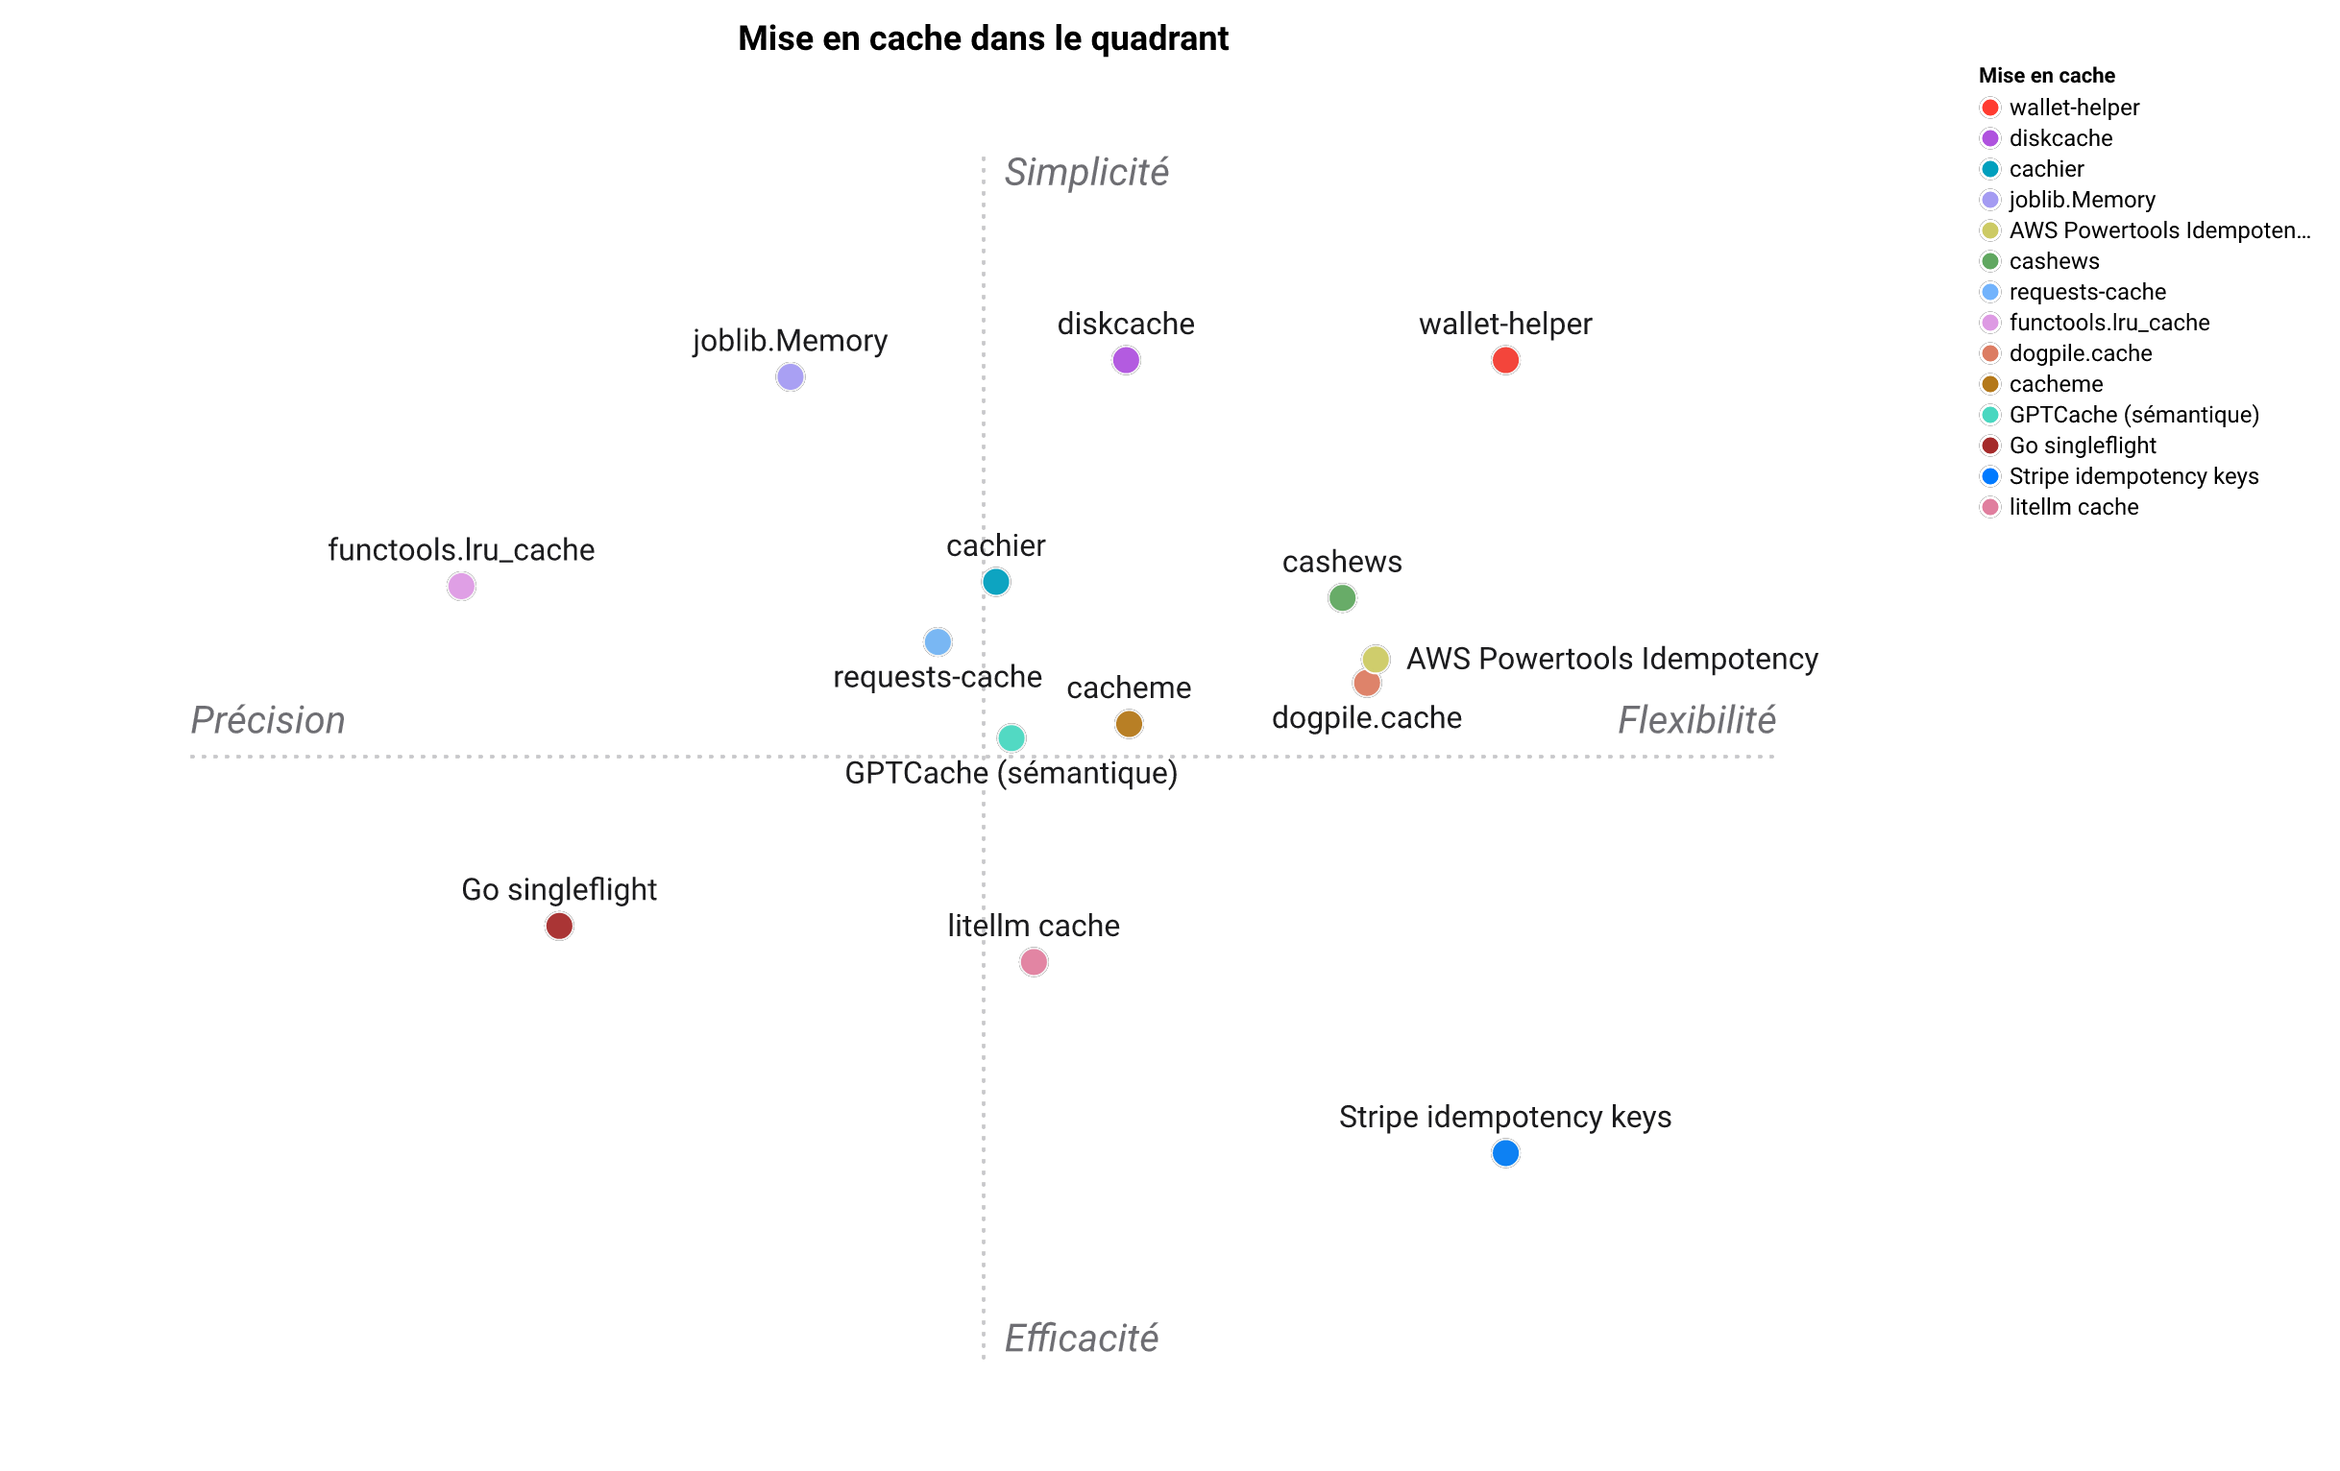
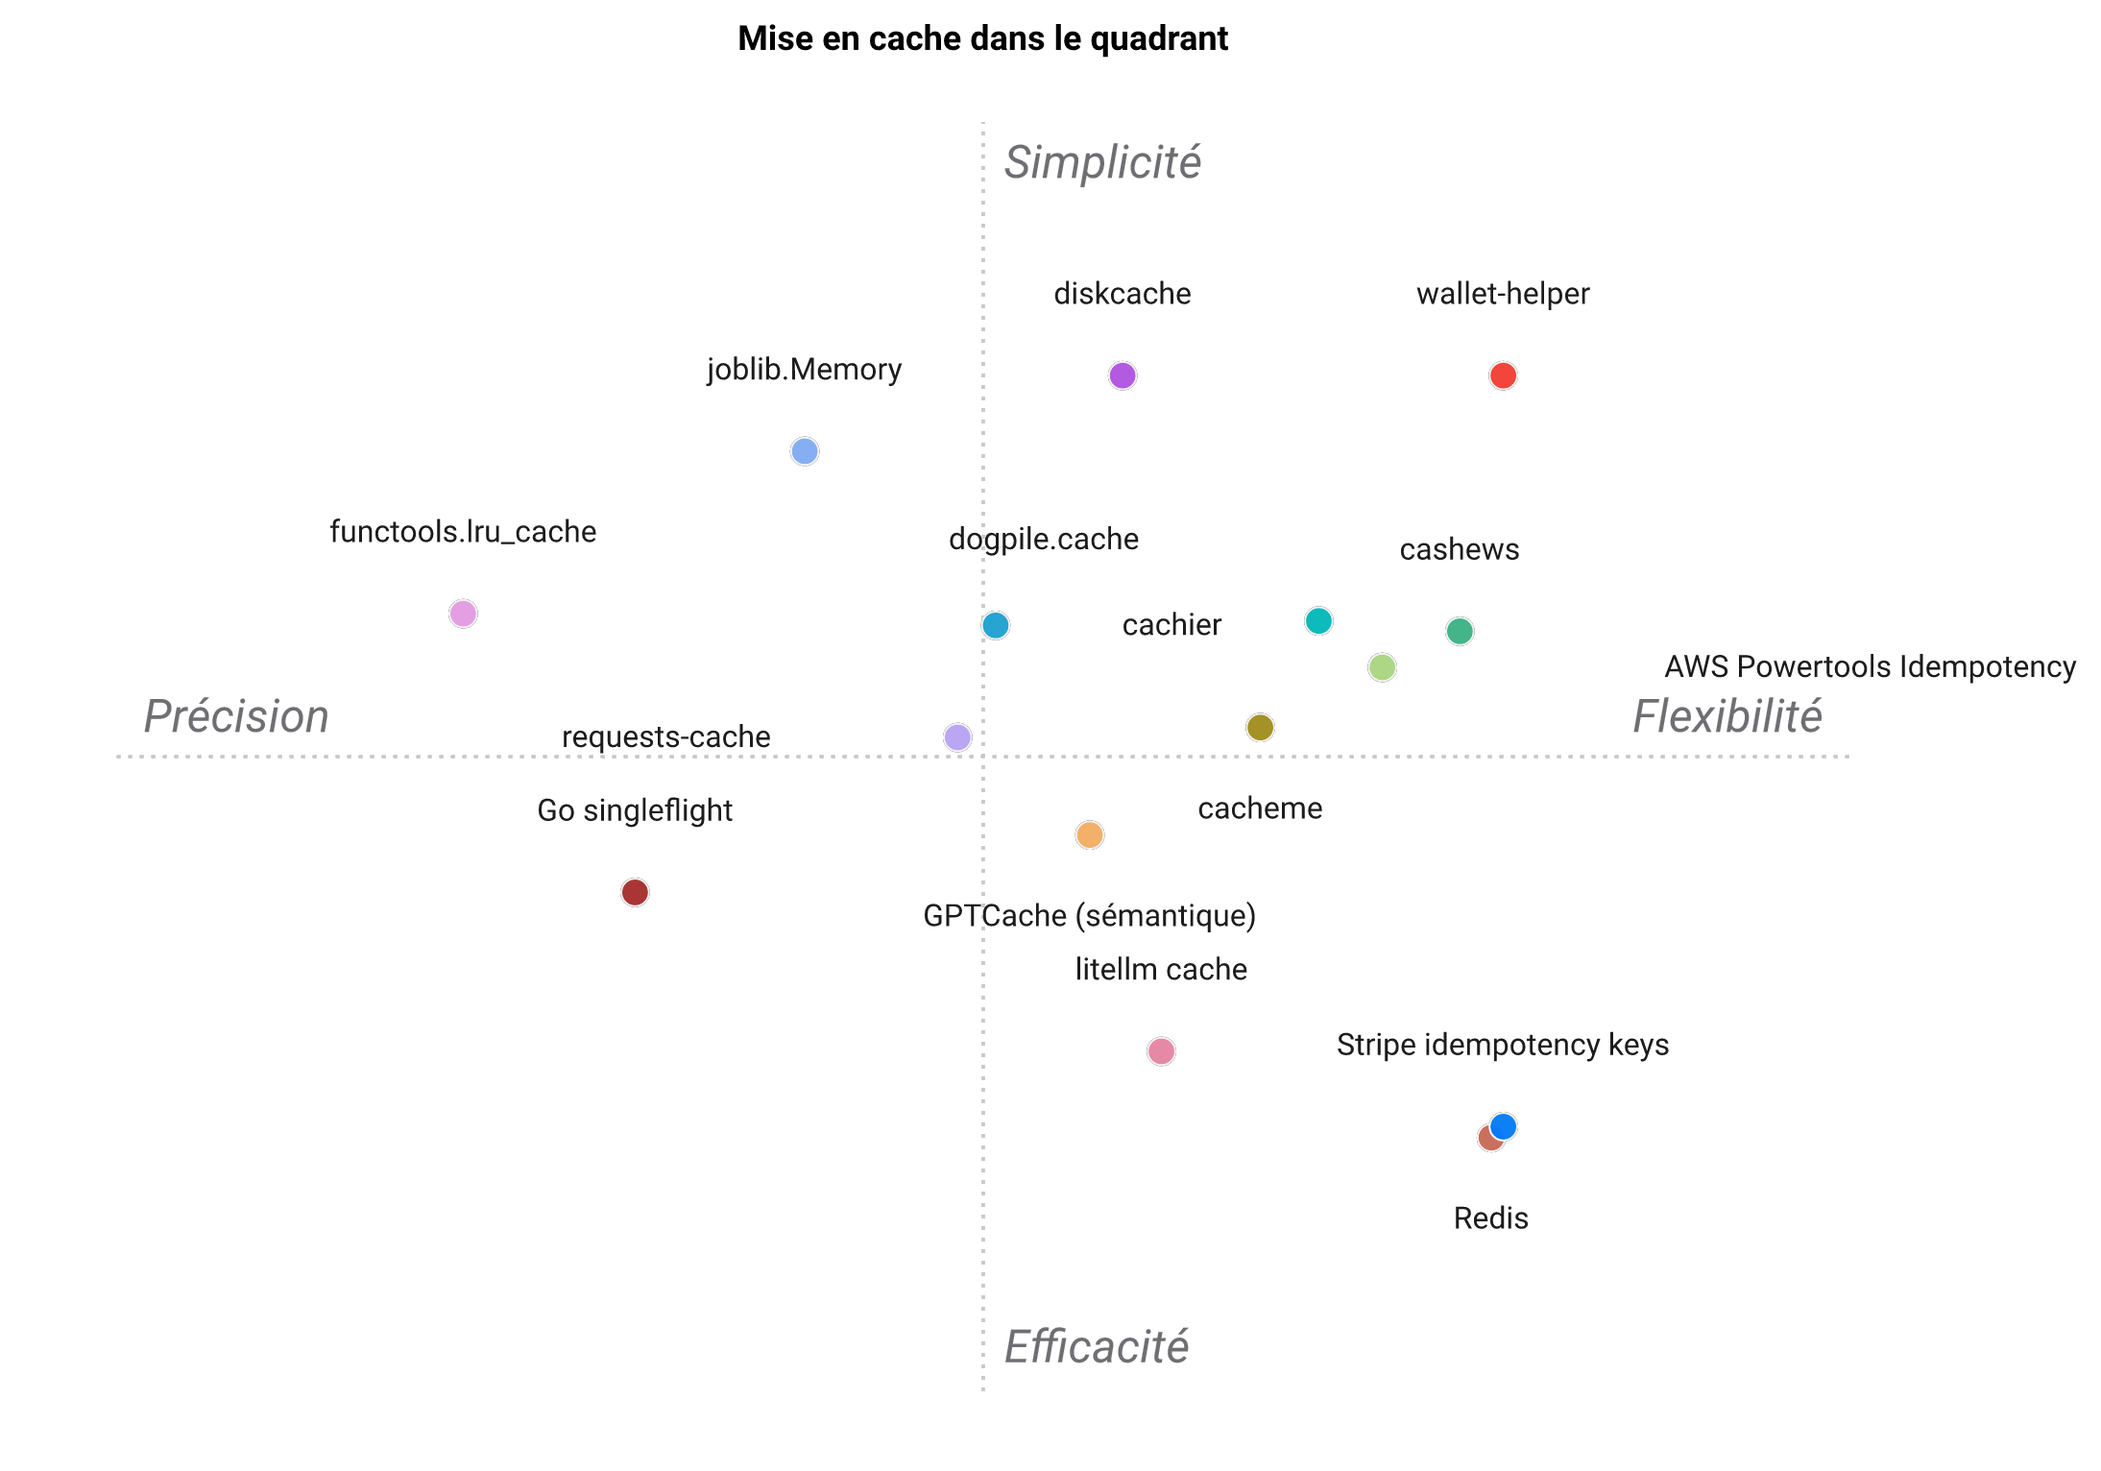
docs(landscape): add Redis + async axis; regenerated positioning map
Add an "Async support" criterion (a real differentiator wallet-helper's docs
emphasize) and Redis as the scalable/server pole opposite wallet-helper.
Regenerate the figure via standpoint 0.6.0 and reconcile the feature-list and
pros-and-cons prose with the new column and row.

diff --git a/PAYSAGE.md b/PAYSAGE.md
@@ -36,25 +36,27 @@ Noté de ⭐ (absent ou faible) à ⭐⭐⭐⭐⭐ (meilleur de sa catégorie) p
 - **TTL / expiration** : fraîcheur par entrée avec expiration et éviction.
 - **Serveur pour plusieurs clients** : un point d'accès partagé qui centralise la déduplication.
 - **Décorateur** : ergonomie transparente `@decorator`.
+- **Support asynchrone** : fonctionne avec les coroutines `async def`, pas seulement les fonctions synchrones.
 - **Local (sans service)** : fonctionne sans base de données ni serveur de cache séparé. Il s'agit de l'empreinte de déploiement, pas du nombre de dépendances.
 
 <!-- TABLE:START -->
-| Mise en cache | Persistant | Adresse par contenu d'entrée | Single-flight intra-processus | Single-flight inter-processus | TTL / expiration | Serveur pour plusieurs clients | Décorateur | Local (sans service) |
-| --- | :---: | :---: | :---: | :---: | :---: | :---: | :---: | :---: |
-| **wallet-helper** | ⭐⭐⭐⭐⭐ | ⭐⭐⭐⭐⭐ | ⭐⭐⭐⭐⭐ | ⭐⭐⭐⭐⭐ | ⭐⭐⭐⭐⭐ | ⭐⭐⭐⭐ | ⭐⭐⭐⭐⭐ | ⭐⭐⭐⭐ |
-| functools.lru_cache | ⭐ | ⭐ | ⭐ | ⭐ | ⭐ | ⭐ | ⭐⭐⭐⭐⭐ | ⭐⭐⭐⭐⭐ |
-| joblib.Memory | ⭐⭐⭐⭐⭐ | ⭐⭐⭐ | ⭐ | ⭐ | ⭐ | ⭐ | ⭐⭐⭐⭐ | ⭐⭐⭐ |
-| diskcache | ⭐⭐⭐⭐⭐ | ⭐⭐ | ⭐⭐⭐ | ⭐⭐⭐ | ⭐⭐⭐⭐⭐ | ⭐ | ⭐⭐⭐⭐ | ⭐⭐⭐⭐ |
-| cachier | ⭐⭐⭐⭐ | ⭐ | ⭐ | ⭐⭐⭐ | ⭐⭐⭐⭐ | ⭐ | ⭐⭐⭐⭐ | ⭐⭐⭐ |
-| requests-cache | ⭐⭐⭐⭐⭐ | ⭐ | ⭐ | ⭐ | ⭐⭐⭐⭐⭐ | ⭐ | ⭐⭐ | ⭐⭐⭐ |
-| dogpile.cache | ⭐⭐⭐⭐ | ⭐ | ⭐⭐⭐⭐⭐ | ⭐⭐⭐⭐ | ⭐⭐⭐⭐⭐ | ⭐⭐ | ⭐⭐⭐⭐ | ⭐⭐ |
-| Go singleflight | ⭐ | ⭐ | ⭐⭐⭐⭐⭐ | ⭐ | ⭐ | ⭐ | ⭐ | ⭐⭐⭐⭐⭐ |
-| AWS Powertools Idempotency | ⭐⭐⭐⭐ | ⭐⭐ | ⭐⭐ | ⭐⭐⭐⭐⭐ | ⭐⭐⭐⭐ | ⭐⭐ | ⭐⭐⭐⭐ | ⭐ |
-| Stripe idempotency keys | ⭐⭐⭐ | ⭐ | ⭐⭐⭐⭐ | ⭐⭐⭐⭐⭐ | ⭐⭐⭐ | ⭐⭐⭐⭐⭐ | ⭐ | ⭐ |
-| litellm cache | ⭐⭐⭐⭐ | ⭐ | ⭐ | ⭐⭐⭐ | ⭐⭐⭐ | ⭐ | ⭐ | ⭐ |
-| cashews | ⭐⭐⭐⭐ | ⭐ | ⭐⭐⭐⭐ | ⭐⭐⭐⭐ | ⭐⭐⭐⭐⭐ | ⭐⭐ | ⭐⭐⭐⭐⭐ | ⭐⭐ |
-| cacheme | ⭐⭐⭐ | ⭐ | ⭐⭐⭐⭐⭐ | ⭐⭐⭐ | ⭐⭐⭐⭐ | ⭐ | ⭐⭐⭐⭐ | ⭐⭐ |
-| GPTCache (sémantique) | ⭐⭐⭐⭐ | ⭐⭐ | ⭐ | ⭐⭐ | ⭐⭐⭐ | ⭐⭐ | ⭐⭐ | ⭐⭐ |
+| Mise en cache | Persistant | Adresse par contenu d'entrée | Single-flight intra-processus | Single-flight inter-processus | TTL / expiration | Serveur pour plusieurs clients | Décorateur | Support asynchrone | Local (sans service) |
+| --- | :---: | :---: | :---: | :---: | :---: | :---: | :---: | :---: | :---: |
+| **wallet-helper** | ⭐⭐⭐⭐⭐ | ⭐⭐⭐⭐⭐ | ⭐⭐⭐⭐⭐ | ⭐⭐⭐⭐⭐ | ⭐⭐⭐⭐⭐ | ⭐⭐⭐⭐ | ⭐⭐⭐⭐⭐ | ⭐⭐⭐⭐⭐ | ⭐⭐⭐⭐ |
+| functools.lru_cache | ⭐ | ⭐ | ⭐ | ⭐ | ⭐ | ⭐ | ⭐⭐⭐⭐⭐ | ⭐ | ⭐⭐⭐⭐⭐ |
+| joblib.Memory | ⭐⭐⭐⭐⭐ | ⭐⭐⭐ | ⭐ | ⭐ | ⭐ | ⭐ | ⭐⭐⭐⭐ | ⭐ | ⭐⭐⭐ |
+| diskcache | ⭐⭐⭐⭐⭐ | ⭐⭐ | ⭐⭐⭐ | ⭐⭐⭐ | ⭐⭐⭐⭐⭐ | ⭐ | ⭐⭐⭐⭐ | ⭐ | ⭐⭐⭐⭐ |
+| cachier | ⭐⭐⭐⭐ | ⭐ | ⭐ | ⭐⭐⭐ | ⭐⭐⭐⭐ | ⭐ | ⭐⭐⭐⭐ | ⭐ | ⭐⭐⭐ |
+| requests-cache | ⭐⭐⭐⭐⭐ | ⭐ | ⭐ | ⭐ | ⭐⭐⭐⭐⭐ | ⭐ | ⭐⭐ | ⭐ | ⭐⭐⭐ |
+| dogpile.cache | ⭐⭐⭐⭐ | ⭐ | ⭐⭐⭐⭐⭐ | ⭐⭐⭐⭐ | ⭐⭐⭐⭐⭐ | ⭐⭐ | ⭐⭐⭐⭐ | ⭐ | ⭐⭐ |
+| Redis | ⭐⭐⭐⭐ | ⭐ | ⭐ | ⭐⭐⭐ | ⭐⭐⭐⭐⭐ | ⭐⭐⭐⭐⭐ | ⭐ | ⭐⭐⭐⭐ | ⭐ |
+| Go singleflight | ⭐ | ⭐ | ⭐⭐⭐⭐⭐ | ⭐ | ⭐ | ⭐ | ⭐ | ⭐⭐⭐ | ⭐⭐⭐⭐⭐ |
+| AWS Powertools Idempotency | ⭐⭐⭐⭐ | ⭐⭐ | ⭐⭐ | ⭐⭐⭐⭐⭐ | ⭐⭐⭐⭐ | ⭐⭐ | ⭐⭐⭐⭐ | ⭐⭐ | ⭐ |
+| Stripe idempotency keys | ⭐⭐⭐ | ⭐ | ⭐⭐⭐⭐ | ⭐⭐⭐⭐⭐ | ⭐⭐⭐ | ⭐⭐⭐⭐⭐ | ⭐ | ⭐⭐⭐ | ⭐ |
+| litellm cache | ⭐⭐⭐⭐ | ⭐ | ⭐ | ⭐⭐⭐ | ⭐⭐⭐ | ⭐ | ⭐ | ⭐⭐⭐⭐ | ⭐ |
+| cashews | ⭐⭐⭐⭐ | ⭐ | ⭐⭐⭐⭐ | ⭐⭐⭐⭐ | ⭐⭐⭐⭐⭐ | ⭐⭐ | ⭐⭐⭐⭐⭐ | ⭐⭐⭐⭐⭐ | ⭐⭐ |
+| cacheme | ⭐⭐⭐ | ⭐ | ⭐⭐⭐⭐⭐ | ⭐⭐⭐ | ⭐⭐⭐⭐ | ⭐ | ⭐⭐⭐⭐ | ⭐⭐⭐⭐⭐ | ⭐⭐ |
+| GPTCache (sémantique) | ⭐⭐⭐⭐ | ⭐⭐ | ⭐ | ⭐⭐ | ⭐⭐⭐ | ⭐⭐ | ⭐⭐ | ⭐⭐⭐ | ⭐⭐ |
 <!-- TABLE:END -->
 
 ## Carte de positionnement
@@ -64,7 +66,7 @@ Représentation 2D du tableau ci-dessus.
 
 ![Carte de positionnement](https://raw.githubusercontent.com/warith-harchaoui/wallet-helper/main/assets/paysage.png)
 
-La carte est un résumé en 2D des 8 critères : à lire comme une forme, pas comme un classement. « wallet-helper » se situe dans le coin en haut à droite. Les axes se lisent **Horizontal — Précision ↔ Flexibilité** et **Vertical — Efficacité ↔ Simplicité**.
+La carte est un résumé en 2D des 9 critères : à lire comme une forme, pas comme un classement. « wallet-helper » se situe dans le coin en haut à droite. Les axes se lisent **Horizontal — Précision ↔ Flexibilité** et **Vertical — Efficacité ↔ Simplicité**.
 <!-- FIGURE:END -->
 
 ## Avantages et inconvénients
@@ -78,6 +80,7 @@ La carte est un résumé en 2D des 8 critères : à lire comme une forme, pas co
 | `cachier` | Décorateur simple ; durée de vie (`stale_after`) ; plusieurs backends. | Pas de vrai single-flight ; l'usage distribué nécessite mongo ou redis. |
 | `requests-cache` | Transparent pour `requests` ; riches métadonnées de cache par réponse. | HTTP seulement ; pas de coalescence ; pas pour des fonctions arbitraires. |
 | `dogpile.cache` | Vrai verrou dogpile (`get_or_create`) ; stale-while-revalidate ; extensible. | A besoin d'un backend de cache (memcached, redis) pour le cas partagé ; plus de pièces mobiles. |
+| Redis | Le pôle scalable opposé à wallet-helper : le magasin en mémoire sur lequel beaucoup de ces outils s'appuient ; TTL et éviction ; un serveur partagé qui centralise l'état entre clients et hôtes ; clients asynchrones. | Un service séparé à faire tourner et exploiter, donc ni local ni autonome ; vous gérez les clés explicitement, sans adressage par contenu d'entrée ; pas de coalescence d'appels ni de `@decorator` intégrés ; single-flight seulement si vous ajoutez un verrou par-dessus. |
 | Go `singleflight` | La primitive de référence de coalescence en vol ; minuscule. | En vol seulement (pas de cache) ; mono-processus ; en Go, pas en Python. |
 | AWS Powertools Idempotency | Bail INPROGRESS robuste ; suppression en cas d'échec ; expiration ; éprouvé. | A besoin de DynamoDB ou redis ; les suiveurs rejettent-et-réessaient au lieu d'attendre ; centré sur AWS. |
 | Stripe idempotency keys | Standard de l'industrie ; rejoue les résultats terminés ; rejette les doublons concurrents. | Distant et lié au compte ; HTTP seulement ; l'appelant doit gérer les clés. |

diff --git a/LANDSCAPE.md b/LANDSCAPE.md
@@ -34,26 +34,28 @@ Rated ⭐ (absent or poor) to ⭐⭐⭐⭐⭐ (best in class) per column.
 - **TTL / expiry**: per-entry freshness with expiry and eviction.
 - **Server for many clients**: a shared endpoint that centralizes dedup.
 - **Decorator**: transparent `@decorator` ergonomics.
+- **Async support**: works with `async def` coroutines, not only synchronous functions.
 - **Local (no service)**: runs without a separate database or cache server. This
   is about deployment footprint, not dependency count.
 
 <!-- TABLE:START -->
-| Caching | Persistent | Content-addresses input | In-process single-flight | Cross-process single-flight | TTL / expiry | Server for many clients | Decorator | Local (no service) |
-| --- | :---: | :---: | :---: | :---: | :---: | :---: | :---: | :---: |
-| **wallet-helper** | ⭐⭐⭐⭐⭐ | ⭐⭐⭐⭐⭐ | ⭐⭐⭐⭐⭐ | ⭐⭐⭐⭐⭐ | ⭐⭐⭐⭐⭐ | ⭐⭐⭐⭐ | ⭐⭐⭐⭐⭐ | ⭐⭐⭐⭐ |
-| functools.lru_cache | ⭐ | ⭐ | ⭐ | ⭐ | ⭐ | ⭐ | ⭐⭐⭐⭐⭐ | ⭐⭐⭐⭐⭐ |
-| joblib.Memory | ⭐⭐⭐⭐⭐ | ⭐⭐⭐ | ⭐ | ⭐ | ⭐ | ⭐ | ⭐⭐⭐⭐ | ⭐⭐⭐ |
-| diskcache | ⭐⭐⭐⭐⭐ | ⭐⭐ | ⭐⭐⭐ | ⭐⭐⭐ | ⭐⭐⭐⭐⭐ | ⭐ | ⭐⭐⭐⭐ | ⭐⭐⭐⭐ |
-| cachier | ⭐⭐⭐⭐ | ⭐ | ⭐ | ⭐⭐⭐ | ⭐⭐⭐⭐ | ⭐ | ⭐⭐⭐⭐ | ⭐⭐⭐ |
-| requests-cache | ⭐⭐⭐⭐⭐ | ⭐ | ⭐ | ⭐ | ⭐⭐⭐⭐⭐ | ⭐ | ⭐⭐ | ⭐⭐⭐ |
-| dogpile.cache | ⭐⭐⭐⭐ | ⭐ | ⭐⭐⭐⭐⭐ | ⭐⭐⭐⭐ | ⭐⭐⭐⭐⭐ | ⭐⭐ | ⭐⭐⭐⭐ | ⭐⭐ |
-| Go singleflight | ⭐ | ⭐ | ⭐⭐⭐⭐⭐ | ⭐ | ⭐ | ⭐ | ⭐ | ⭐⭐⭐⭐⭐ |
-| AWS Powertools Idempotency | ⭐⭐⭐⭐ | ⭐⭐ | ⭐⭐ | ⭐⭐⭐⭐⭐ | ⭐⭐⭐⭐ | ⭐⭐ | ⭐⭐⭐⭐ | ⭐ |
-| Stripe idempotency keys | ⭐⭐⭐ | ⭐ | ⭐⭐⭐⭐ | ⭐⭐⭐⭐⭐ | ⭐⭐⭐ | ⭐⭐⭐⭐⭐ | ⭐ | ⭐ |
-| litellm cache | ⭐⭐⭐⭐ | ⭐ | ⭐ | ⭐⭐⭐ | ⭐⭐⭐ | ⭐ | ⭐ | ⭐ |
-| cashews | ⭐⭐⭐⭐ | ⭐ | ⭐⭐⭐⭐ | ⭐⭐⭐⭐ | ⭐⭐⭐⭐⭐ | ⭐⭐ | ⭐⭐⭐⭐⭐ | ⭐⭐ |
-| cacheme | ⭐⭐⭐ | ⭐ | ⭐⭐⭐⭐⭐ | ⭐⭐⭐ | ⭐⭐⭐⭐ | ⭐ | ⭐⭐⭐⭐ | ⭐⭐ |
-| GPTCache (semantic) | ⭐⭐⭐⭐ | ⭐⭐ | ⭐ | ⭐⭐ | ⭐⭐⭐ | ⭐⭐ | ⭐⭐ | ⭐⭐ |
+| Caching | Persistent | Content-addresses input | In-process single-flight | Cross-process single-flight | TTL / expiry | Server for many clients | Decorator | Async support | Local (no service) |
+| --- | :---: | :---: | :---: | :---: | :---: | :---: | :---: | :---: | :---: |
+| **wallet-helper** | ⭐⭐⭐⭐⭐ | ⭐⭐⭐⭐⭐ | ⭐⭐⭐⭐⭐ | ⭐⭐⭐⭐⭐ | ⭐⭐⭐⭐⭐ | ⭐⭐⭐⭐ | ⭐⭐⭐⭐⭐ | ⭐⭐⭐⭐⭐ | ⭐⭐⭐⭐ |
+| functools.lru_cache | ⭐ | ⭐ | ⭐ | ⭐ | ⭐ | ⭐ | ⭐⭐⭐⭐⭐ | ⭐ | ⭐⭐⭐⭐⭐ |
+| joblib.Memory | ⭐⭐⭐⭐⭐ | ⭐⭐⭐ | ⭐ | ⭐ | ⭐ | ⭐ | ⭐⭐⭐⭐ | ⭐ | ⭐⭐⭐ |
+| diskcache | ⭐⭐⭐⭐⭐ | ⭐⭐ | ⭐⭐⭐ | ⭐⭐⭐ | ⭐⭐⭐⭐⭐ | ⭐ | ⭐⭐⭐⭐ | ⭐ | ⭐⭐⭐⭐ |
+| cachier | ⭐⭐⭐⭐ | ⭐ | ⭐ | ⭐⭐⭐ | ⭐⭐⭐⭐ | ⭐ | ⭐⭐⭐⭐ | ⭐ | ⭐⭐⭐ |
+| requests-cache | ⭐⭐⭐⭐⭐ | ⭐ | ⭐ | ⭐ | ⭐⭐⭐⭐⭐ | ⭐ | ⭐⭐ | ⭐ | ⭐⭐⭐ |
+| dogpile.cache | ⭐⭐⭐⭐ | ⭐ | ⭐⭐⭐⭐⭐ | ⭐⭐⭐⭐ | ⭐⭐⭐⭐⭐ | ⭐⭐ | ⭐⭐⭐⭐ | ⭐ | ⭐⭐ |
+| Redis | ⭐⭐⭐⭐ | ⭐ | ⭐ | ⭐⭐⭐ | ⭐⭐⭐⭐⭐ | ⭐⭐⭐⭐⭐ | ⭐ | ⭐⭐⭐⭐ | ⭐ |
+| Go singleflight | ⭐ | ⭐ | ⭐⭐⭐⭐⭐ | ⭐ | ⭐ | ⭐ | ⭐ | ⭐⭐⭐ | ⭐⭐⭐⭐⭐ |
+| AWS Powertools Idempotency | ⭐⭐⭐⭐ | ⭐⭐ | ⭐⭐ | ⭐⭐⭐⭐⭐ | ⭐⭐⭐⭐ | ⭐⭐ | ⭐⭐⭐⭐ | ⭐⭐ | ⭐ |
+| Stripe idempotency keys | ⭐⭐⭐ | ⭐ | ⭐⭐⭐⭐ | ⭐⭐⭐⭐⭐ | ⭐⭐⭐ | ⭐⭐⭐⭐⭐ | ⭐ | ⭐⭐⭐ | ⭐ |
+| litellm cache | ⭐⭐⭐⭐ | ⭐ | ⭐ | ⭐⭐⭐ | ⭐⭐⭐ | ⭐ | ⭐ | ⭐⭐⭐⭐ | ⭐ |
+| cashews | ⭐⭐⭐⭐ | ⭐ | ⭐⭐⭐⭐ | ⭐⭐⭐⭐ | ⭐⭐⭐⭐⭐ | ⭐⭐ | ⭐⭐⭐⭐⭐ | ⭐⭐⭐⭐⭐ | ⭐⭐ |
+| cacheme | ⭐⭐⭐ | ⭐ | ⭐⭐⭐⭐⭐ | ⭐⭐⭐ | ⭐⭐⭐⭐ | ⭐ | ⭐⭐⭐⭐ | ⭐⭐⭐⭐⭐ | ⭐⭐ |
+| GPTCache (semantic) | ⭐⭐⭐⭐ | ⭐⭐ | ⭐ | ⭐⭐ | ⭐⭐⭐ | ⭐⭐ | ⭐⭐ | ⭐⭐⭐ | ⭐⭐ |
 <!-- TABLE:END -->
 
 ## Positioning map
@@ -63,7 +65,7 @@ Rated ⭐ (absent or poor) to ⭐⭐⭐⭐⭐ (best in class) per column.
 
 ![Positioning map](https://raw.githubusercontent.com/warith-harchaoui/wallet-helper/main/assets/landscape.png)
 
-The map is a 2-D summary of the eight criteria, so read it as a shape, not a scoreboard. `wallet-helper` is at the top-right corner. The axes read **Horizontal — Local ↔ Scalable** and **Vertical — Efficient ↔ Flexible**.
+The map is a 2-D summary of the nine criteria, so read it as a shape, not a scoreboard. `wallet-helper` is at the top-right corner. The axes read **Horizontal — Local ↔ Scalable** and **Vertical — Asynchronous ↔ Persistent**.
 <!-- FIGURE:END -->
 
 ## Pros and cons
@@ -77,6 +79,7 @@ The map is a 2-D summary of the eight criteria, so read it as a shape, not a sco
 | `cachier` | Simple decorator; time-to-live (`stale_after`); several backends. | No true single-flight; distributed use needs mongo or redis. |
 | `requests-cache` | Transparent for `requests`; rich per-response cache metadata. | HTTP only; no coalescing; not for arbitrary functions. |
 | `dogpile.cache` | Real dogpile lock (`get_or_create`); stale-while-revalidate; pluggable. | Needs a cache backend (memcached, redis) for the shared case; more moving parts. |
+| Redis | The scalable pole opposite wallet-helper: the in-memory store many of these tools build on; TTL and eviction; a shared server that centralizes state across clients and hosts; async clients. | A separate service to run and operate, so not local or self-contained; you manage keys explicitly, with no input content-addressing; no built-in call coalescing or `@decorator`; single-flight only if you layer a lock on top. |
 | Go `singleflight` | The reference in-flight coalescing primitive; tiny. | In-flight only (no cache); single process; Go, not Python. |
 | AWS Powertools Idempotency | Robust INPROGRESS lease; delete-on-failure; expiry; battle-tested. | Needs DynamoDB or redis; followers reject-and-retry rather than wait; AWS-centric. |
 | Stripe idempotency keys | Industry standard; replays completed results; rejects concurrent duplicates. | Remote and account-bound; HTTP only; caller must manage keys. |
